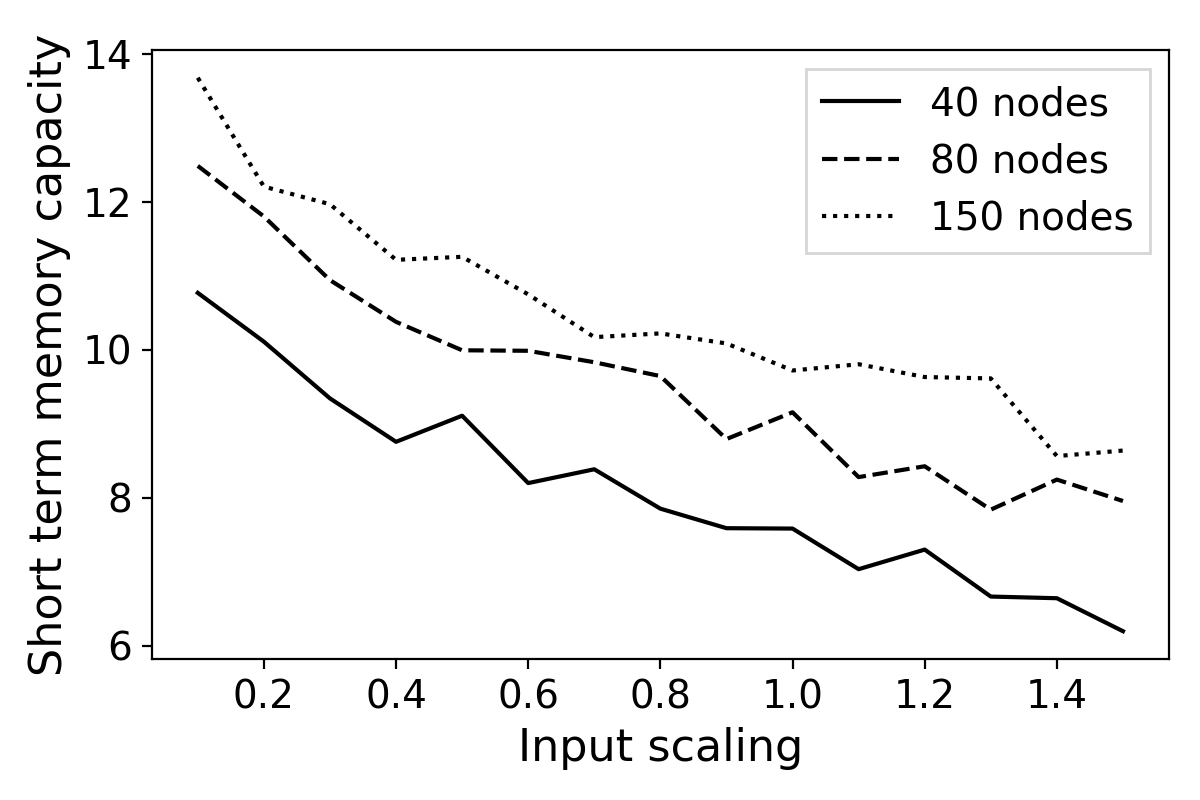
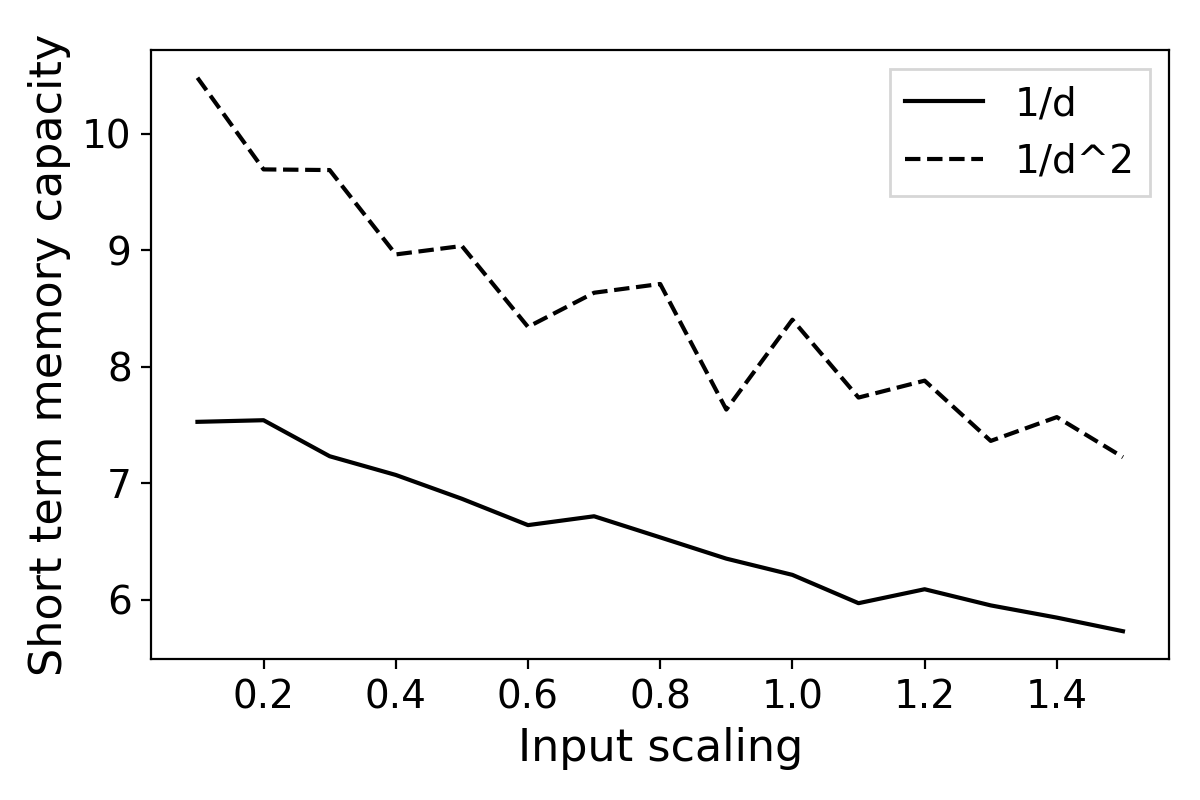
Distance functions and memory capacity.

diff --git a/master/sections/4-experiment-a.tex b/master/sections/4-experiment-a.tex
@@ -40,6 +40,7 @@ diminishes according to $1/d^3$ \cite{jensen_computation_2018}. A dimensionality
 of 3, i.e. $[0, l)^{3}$, is used.
 
 \section{Size of the Underlying Volume}
+\label{sec:volume-size}
 
 \subsection{Synopsis}
 
@@ -113,29 +114,21 @@ worse than what is achieved using a shift register with perfect memory. There is
 thus an indication that spatial restrictions do cause a performance penalty, and
 figuring out what is causing this is a main theme of the following sections.
 
-\section{Choice of Distance Function}
+\section{Distance Functions and Memory Capacity}
+\label{sec:dist-func}
 
 \subsection{Synopsis}
 
-\textcolor{red}{
-  Different systems may exhibit different characteristics. For example flatspin
-uses couplings of $1/d^3$. Not necessarily directly comparable, but it is an
-interesting problem from a theoretical standpoint.
-}
+Before exploring changes to improve upon our RGG model, it is reasonable to
+examine the differences between the distance functions we have available, $1/d$,
+$1/d^2$, and $1/d^3$. The increasing degree of the inverse of the distance
+essentially acts to reduce the neighborhood size $r$. For example, with a
+distance function of $1/d^3$, nodes that are distant will have little or no
+impact on each other.
 
-\textcolor{red}{
-  In this section we compare the distance functions $1/d$, $1/d^2$ and $1/d^3$,
-and also see how they compare to the standard echo state network. We also look a
-little deeper into why these functions seem to be unable to reach the level of
-the ESN by looking at short-term memory capacity.
-}
-
-\textcolor{red}{
-  \textbf{Methodology}: Here we are using what we figured out in the previous
-section, and scale the spectral radius directly. We set the spectral radius to
-0.9, and use the same input scheme again, which is uniform sampling in the
-interval [-0.5, 0.5].
-}
+Using the knowledge we gained in Section \ref{sec:volume-size}, we now also
+directly scale the spectral radius of $\mathbf{W}^{res}$ to 0.9 by multiplying
+it by the appropriate scalar.
 
 \subsection{Results and Discussion}
 
@@ -163,7 +156,17 @@ compared to the standard echo state network.
   \label{fig:dist-performance}
 \end{figure*}
 
-% (TODO): Consider 3d plots for hidden nodes.
+Figure \ref{fig:dist-performance} compares the performance of the distance
+functions to that of default ESNs. Plotted is NARMA-10 NRMSE as a function of
+reservoir size. The average over 20 runs, shown in Figure
+\ref{fig:dist-performance-a}, shows little noticeable decrease in error for the
+distance functions as reservoir size increases. Additionally, it is clear that
+there is some degree of variability in the error when using the $1/d^2$ and
+$1/d^3$ functions. This notion is strengthened by Figure
+\ref{fig:dist-performance-b}, where we see best performances for $1/d$ is about
+the same as the mean, while $1/d^2$ and $1/d^3$ show a slight decrease in error
+with reservoir size.
+
 % (TODO): t!
 \begin{figure*}[t]
   \centering
@@ -180,80 +183,54 @@ compared to the standard echo state network.
     \label{fig:dist-performance-is-b}
   \end{subfigure}
   \caption{
-    Effect of input scaling on reservoirs generated as random geometric
-graphs. There is a correlation between the short-term memory capacity of the
-reservoirs (a), and error rates for the NARMA-10 task (b). The distance function
-used is $1/d^2$.
+    Effect of input scaling on reservoirs generated as random geometric graphs,
+size $N = 80$. There is a correlation between the short-term memory capacity of
+the reservoirs (a), and error rates for the NARMA-10 task (b). The distance
+function used is $1/d$.
   }
   \label{fig:dist-performance-is}
 \end{figure*}
 
-\textcolor{red}{
-  We see that all distance functions are quite far away from the echo state
-network, as was established earlier. We also notice that they seem to be quite
-unstable compared to the ESN in generation, especially $1/d^3$ has a bad mean
-over the runs, but a min that is on par with $1/d^2$. Why is not immediately
-clear, but will be resolved in the next section with additions of signed and
-directed edges.
-}
+Empirically, we have found that reservoirs that get no significant performance
+increase on the NARMA-10 task with an increasing reservoir size, tend to be
+limited by memory capacity. The inability of the reservoirs to reach the
+performance of a delay line supports this hypothesis. Figure
+\ref{fig:dist-performance-is} highlights this, presenting both the short-term
+memory capacity and the NARMA-10 NRMSE of reservoirs of size $N = 80$ as a
+function of input scaling. As we decrease the input scaling, the memory capacity
+increases, and error decreases. This is expected, since determines how nonlinear
+the responses of the reservoir are, and there exists a memory-nonlinearity
+trade-off, described in Section \ref{ssec:metrics}.
 
-\textcolor{red}{
-  We see that all the distance functions see a significant improvement from
-increasing the size of the reservoir, but not as great as that of the echo state
-network. Note that this is without exhausting the parameters that are usually
-swept: input scaling and spectral radius. In a further experiment, we look at
-why these networks are significantly worse than ESNs by choosing the $1/d^2$
-distance function, and looking and something that intuitively seems to be the
-cause: short-term memory, which is shown in Figure
-\ref{fig:dist-performance-is}.
-}
+To summarize, we have found that the average performance of our distance
+functions seem to hover around similar values. A general trend is that the RGG
+model lacks sufficient memory capacity to solve the NARMA-10 task well,
+regardless of the distance function used. Further exploration can be done by
+choosing a single distance function, as our results suggest that they suffer
+from problems of a similar nature.
 
-\textcolor{red}{
-  A thought that may arise when looking at this, is that the random geometric
-graph reservoirs will never reach the performance of a delay line, even with
-bigger reservoirs. This indicates that their memory capacity is perhaps not up
-to par, which is further illustrated in Figure
-\ref{fig:dist-performance-is}. The setup for this experiment was 10 runs, where
-the short-term memory is the max value, and the NRMSE is the min value for the
-reservoirs generated.
-}
-
-\textcolor{red}{
-  Thus, we see that we may increase the performance of RGG reservoirs by using
-the commonly swept input scaling parameter to exchange nonlinear dynamics for
-memory. Reservoirs seem to get significantly better once we reach the required
-memory capacity of 10, but is still slightly behind the echo state network when
-comparing e.g. the 80 node network in Figure \ref{fig:dist-performance-is-b} to
-that of the echo state network of size 80 nodes in Figure
-\ref{fig:dist-performance}
-}
-
-\textcolor{red}{
-  We see that some distance functions seem to perform better, namely $1/d^2$
-seems to be both the best performing, while also being quite stable. We also see
-that the default performance of the random geometric graphs for $1/d^2$ suffer
-from a low short-term memory capacity, which, in the case of NARMA-10, may be
-remedied by lowering the input scaling to wash older inputs out slower.
-}
+% (TODO): I am not too happy with this section, it is a bit unclear, and might
+% not be relevant/needed at all.
 
 \section{Restoring Echo State Network Performance}
 
 \subsection{Synopsis}
 
-\textcolor{red}{
-  We choose the distance function for $1/d$ when we move on, as this was found
-to give more stable results, as the weights become so small with the other
-distance functions. Similar results were seen with $1/d^2$ as well, but less
-pronounced.
-}
+Next, we will make changes to the $\mathbf{W}^{res}$ generated with the RGG
+model to move its performance close to the ESN. This may seem counter-intuitive,
+as we primarily concern ourselves with physical reservoir computing. Making
+arbitrary changes to the model generation is not a procedure that will
+necessarily translate well to physical substrates and their restrictive
+nature. However, we argue that determining the root cause of the difference in
+error seen in Figure \ref{fig:dist-performance} will uncover important
+properties of reservoir design. In turn, this improves our fundamental
+understanding of the paradigm.
 
-\textcolor{red}{
-  \textit{Why} we are doing this deviates quite a bit from the goal of being
-related to physical reservoir computing, as this is not something one can do
-willy-nilly in such cases. However, this is a measure to gain some insight into
-what has happened, such that we can reason about why this physical restriction
-is an issue.
-}
+For further experiments, we use the $1/d$ distance function. In Section
+\ref{sec:dist-func} we found this function to give the most stable
+results. Although it does not strictly produce the \textit{best} results, we
+found the stability to easier to work with when looking for definitive trends in
+performance. Similar results were seen with $1/d^2$, though less pronounced.
 
 \subsection{Results and Discussion}
 
@@ -312,7 +289,7 @@ directedness are both introduced together, the performance is close to the same
 as that of the ESN.
 }
 
-\section{Reservoir Weight Distributions}
+\section{Reservoir Weight Distribution}
 
 \subsection{Synopsis}
 

diff --git a/py/notebook.py b/py/notebook.py
@@ -211,7 +211,7 @@ def plot_rgg_volume_size():
 def rgg_dist_performance():
     params = OrderedDict()
     params['w_res_type'] = ['waxman']
-    params['hidden_nodes'] = np.arange(20, 90, 10)
+    params['hidden_nodes'] = np.arange(20, 190, 10)
     params['dist_function'] = [euclidean, inv, inv_squared, inv_cubed]
     params['readout'] = ['rr']
 
@@ -222,7 +222,7 @@ def rgg_dist_performance():
 def plot_rgg_dist_performance(agg='mean', file_name=None):
     df = load_experiment('experiments/rgg_dist_performance.pkl')
     esn = load_experiment('experiments/esn_general_performance.pkl')
-    esn['hidden_nodes'] = esn[esn['hidden_nodes'] <= 80]['hidden_nodes']
+    esn['hidden_nodes'] = esn[esn['hidden_nodes'] <= 180]['hidden_nodes']
 
     df['dist_function'] = df['dist_function'].apply(
         lambda f: f.__name__ if not isinstance(f, str) else f
@@ -247,6 +247,7 @@ def plot_rgg_dist_performance(agg='mean', file_name=None):
 
     plt.xlabel('Hidden nodes')
     plt.ylabel('NARMA-10 NRMSE')
+    plt.ylim((0.18, 0.75))
 
     plt.legend(bbox_to_anchor=(0., 1.02, 1., .102), loc='lower left', ncol=2,
                mode="expand", borderaxespad=0., fancybox=False)
@@ -260,25 +261,25 @@ def plot_rgg_dist_performance(agg='mean', file_name=None):
 def rgg_dist_mc():
     params = OrderedDict()
     params['w_res_type'] = ['waxman']
-    params['hidden_nodes'] = [40, 80, 150]
-    params['dist_function'] = [inv_squared]
     params['input_scaling'] = np.arange(0.1, 1.6, 0.1)
+    params['hidden_nodes'] = [40, 80, 150]
+    params['dist_function'] = [inv, inv_squared]
 
-    df = experiment(esn_mc, params, runs=10)
+    df = experiment(esn_mc, params, runs=20)
     df.to_pickle('experiments/rgg_dist_mc.pkl')
 
 
 def plot_rgg_dist_mc():
-    df = load_experiment('experiments/rgg_dist_mc.pkl')
+    inv_df = load_experiment('experiments/rgg_dist_mc_inv.pkl')
+    inv_squared_df = load_experiment('experiments/rgg_dist_mc_inv_squared.pkl')
 
-    df40 = df.loc[df['hidden_nodes'] == 40]
-    df80 = df.loc[df['hidden_nodes'] == 80]
-    df150 = df.loc[df['hidden_nodes'] == 150]
+    inv_df = inv_df.loc[inv_df['hidden_nodes'] == 80]
+    inv_squared_df = inv_squared_df.loc[inv_squared_df['hidden_nodes'] == 80]
 
-    linestyles = ['solid', 'dashed', 'dotted']
-    labels = ['40 nodes', '80 nodes', '150 nodes']
-    for i, df in enumerate([df40, df80, df150]):
-        grouped_df = df.groupby(['input_scaling', 'hidden_nodes']).max().reset_index()
+    linestyles = ['solid', 'dashed']
+    labels = ['1/d', '1/d^2']
+    for i, df in enumerate([inv_df, inv_squared_df]):
+        grouped_df = df.groupby(['input_scaling', 'hidden_nodes']).mean().reset_index()
         plt.plot(grouped_df['input_scaling'], grouped_df['esn_mc'], color='black',
                  linestyle=linestyles[i], label=labels[i])
 
@@ -294,25 +295,25 @@ def plot_rgg_dist_mc():
 def rgg_dist_performance_is():
     params = OrderedDict()
     params['w_res_type'] = ['waxman']
-    params['hidden_nodes'] = [40, 80, 150]
-    params['dist_function'] = [inv_squared]
     params['input_scaling'] = np.arange(0.1, 1.6, 0.1)
+    params['hidden_nodes'] = [40, 80, 150]
+    params['dist_function'] = [inv, inv_squared]
 
-    df = experiment(esn_nrmse, params, runs=10)
+    df = experiment(esn_nrmse, params, runs=20)
     df.to_pickle('experiments/rgg_dist_performance_is.pkl')
 
 
 def plot_rgg_dist_performance_is():
-    df = load_experiment('experiments/rgg_dist_performance_is.pkl')
+    inv_df = load_experiment('experiments/rgg_dist_performance_is_inv.pkl')
+    inv_squared_df = load_experiment('experiments/rgg_dist_performance_is_inv_squared.pkl')
 
-    df40 = df.loc[df['hidden_nodes'] == 40]
-    df80 = df.loc[df['hidden_nodes'] == 80]
-    df150 = df.loc[df['hidden_nodes'] == 150]
+    inv_df = inv_df.loc[inv_df['hidden_nodes'] == 80]
+    inv_squared_df = inv_squared_df.loc[inv_squared_df['hidden_nodes'] == 80]
 
-    linestyles = ['solid', 'dashed', 'dotted']
-    labels = ['40 nodes', '80 nodes', '150 nodes']
-    for i, df in enumerate([df40, df80, df150]):
-        grouped_df = df.groupby(['input_scaling', 'hidden_nodes']).min().reset_index()
+    linestyles = ['solid', 'dashed']
+    labels = ['1/d', '1/d^2']
+    for i, df in enumerate([inv_df, inv_squared_df]):
+        grouped_df = df.groupby(['input_scaling', 'hidden_nodes']).mean().reset_index()
         plt.plot(grouped_df['input_scaling'], grouped_df['esn_nrmse'], color='black',
                  linestyle=linestyles[i], label=labels[i])
 

diff --git a/master/sections/2-background.tex b/master/sections/2-background.tex
@@ -275,6 +275,7 @@ of the internal weight matrix. The two approaches are often used in conjunction,
 combined to propose an overall quality.
 
 \subsection{Independent Metrics}
+\label{ssec:metrics}
 
 \subsubsection{Kernel Quality and Generalization}
 
